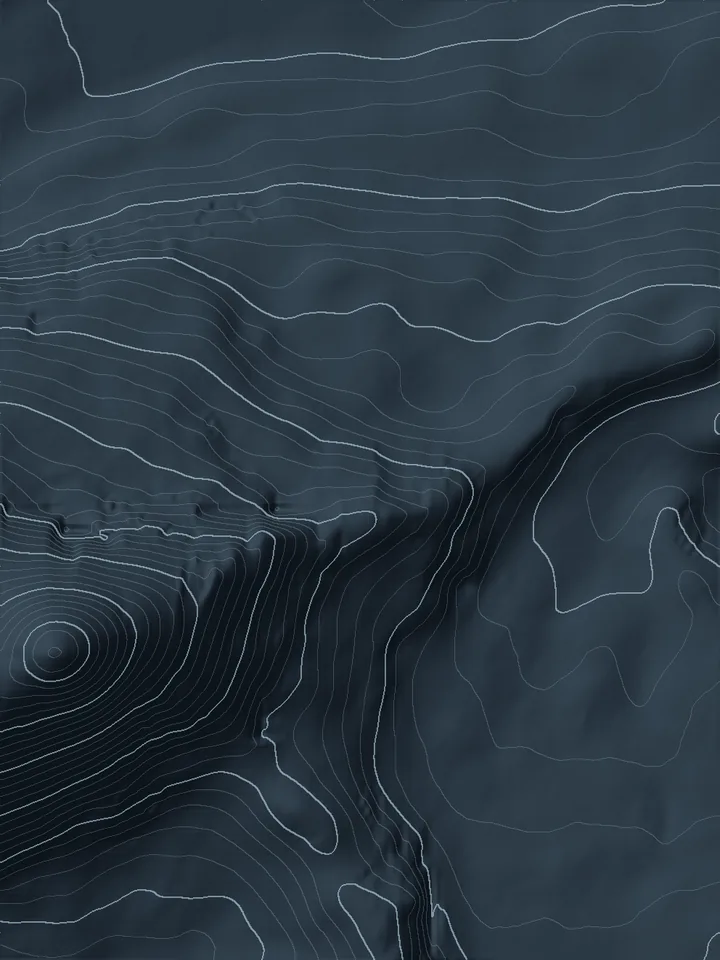
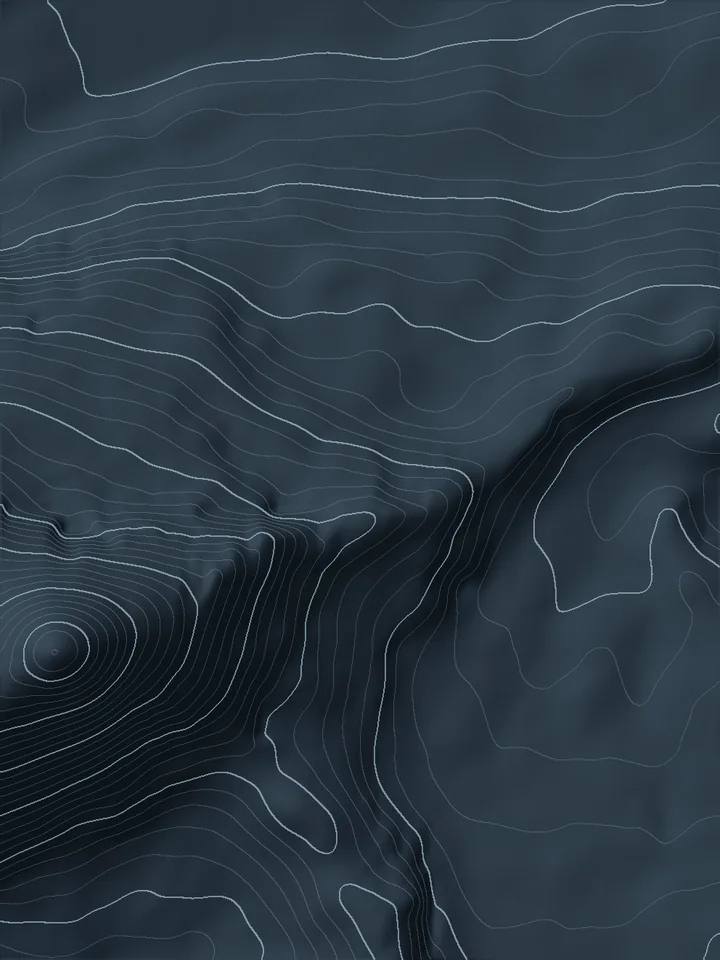
fix(assets): smooth DEM before slope — no banding; quieter rock band

diff --git a/src/prototype/mapCrop.ts b/src/prototype/mapCrop.ts
@@ -1,9 +1,9 @@
 // Сгенерировано scripts/build_map.py — не править руками.
 export const MAP_CROP = {
-  "u0": 0.4481409001956947,
-  "u1": 0.9315068493150684,
-  "v0": 0.05870841487279843,
-  "v1": 0.700587084148728,
+  "u0": 0.4471624266144814,
+  "u1": 0.9324853228962818,
+  "v0": 0.057729941291585124,
+  "v1": 0.7015655577299413,
   "width": 720,
   "height": 960
 } as const
